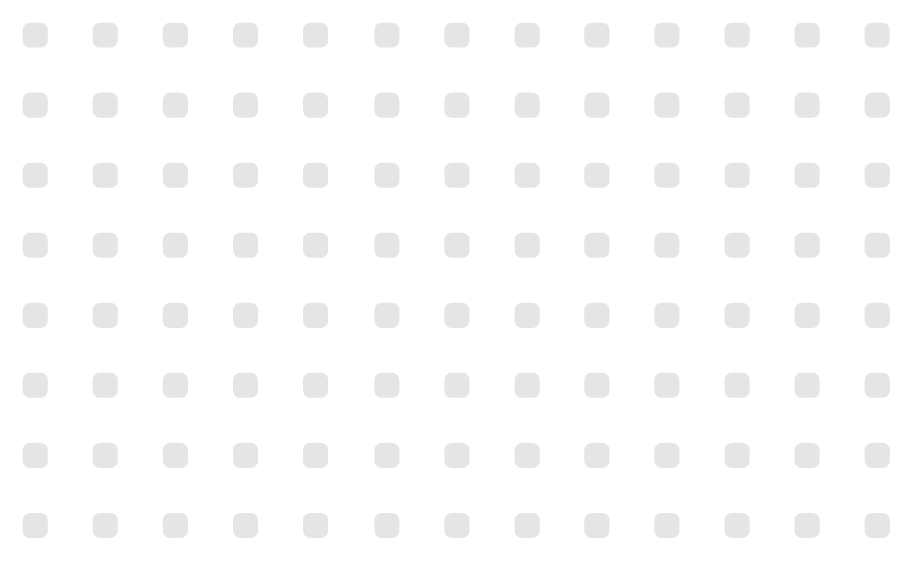
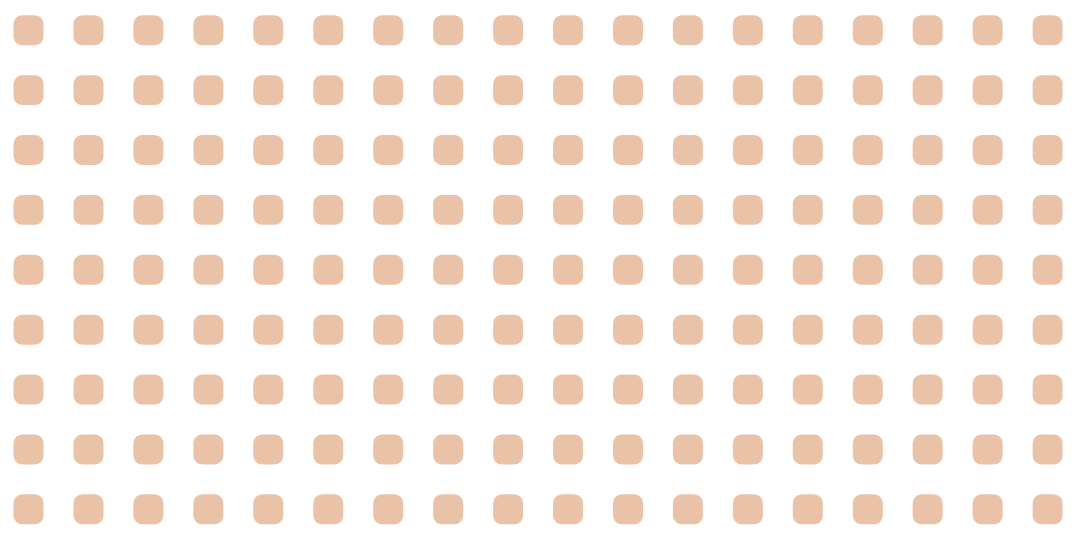
123

diff --git a/index.js b/index.js
@@ -422,7 +422,7 @@ sound = {
 
 // Usage
 let rng = new SeededRandom(2);
-const CELL_ON_STAGE_SIZE=609/13
+const CELL_ON_STAGE_SIZE=720/18
 irnd=(min,max)=>{
 	min=Math.ceil(min)
 	max=Math.floor(max)
@@ -1324,7 +1324,7 @@ puzzle={
 		this.fill_connect_info(i,w,h)
 
 		//размещаем аккуратно блоки
-		soft_placer.run(13,8)
+		soft_placer.run(18,9)
 		for (let i=0;i<this.blocks_num;i++){
 			const block=objects.puzzle_blocks[i]
 			puzzle.place_block_to_grid(block)
@@ -1614,6 +1614,8 @@ function block_down(e){
 		block.sy=block.y
 		block.sx=block.x
 		block.frame.tint=0xffffff
+		objects.puzzle_shadows[ind].visible=false
+		block.m_cells.forEach(c=>c.alpha=0.75)
 	}
 
 	//обновляем z индекс
@@ -1696,6 +1698,8 @@ function block_up(e){
 	for (let m of drag_array){
 		const block=objects.puzzle_blocks[m]
 		block.frame.tint=0x333333
+		block.m_cells.forEach(c=>c.alpha=1)
+		objects.puzzle_shadows[m].visible=true
 		snap_block(block)
 	}
 
